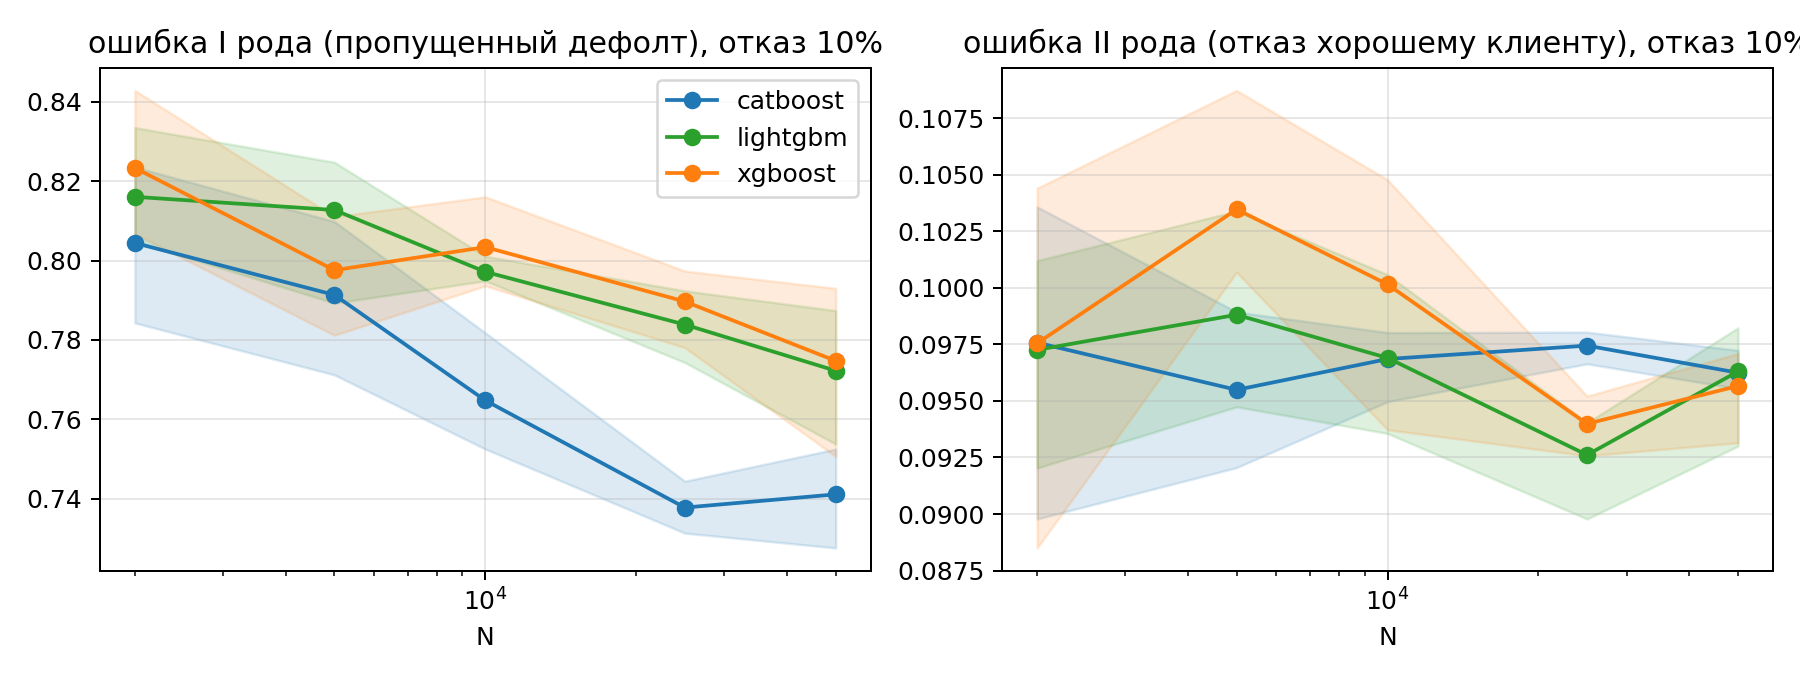
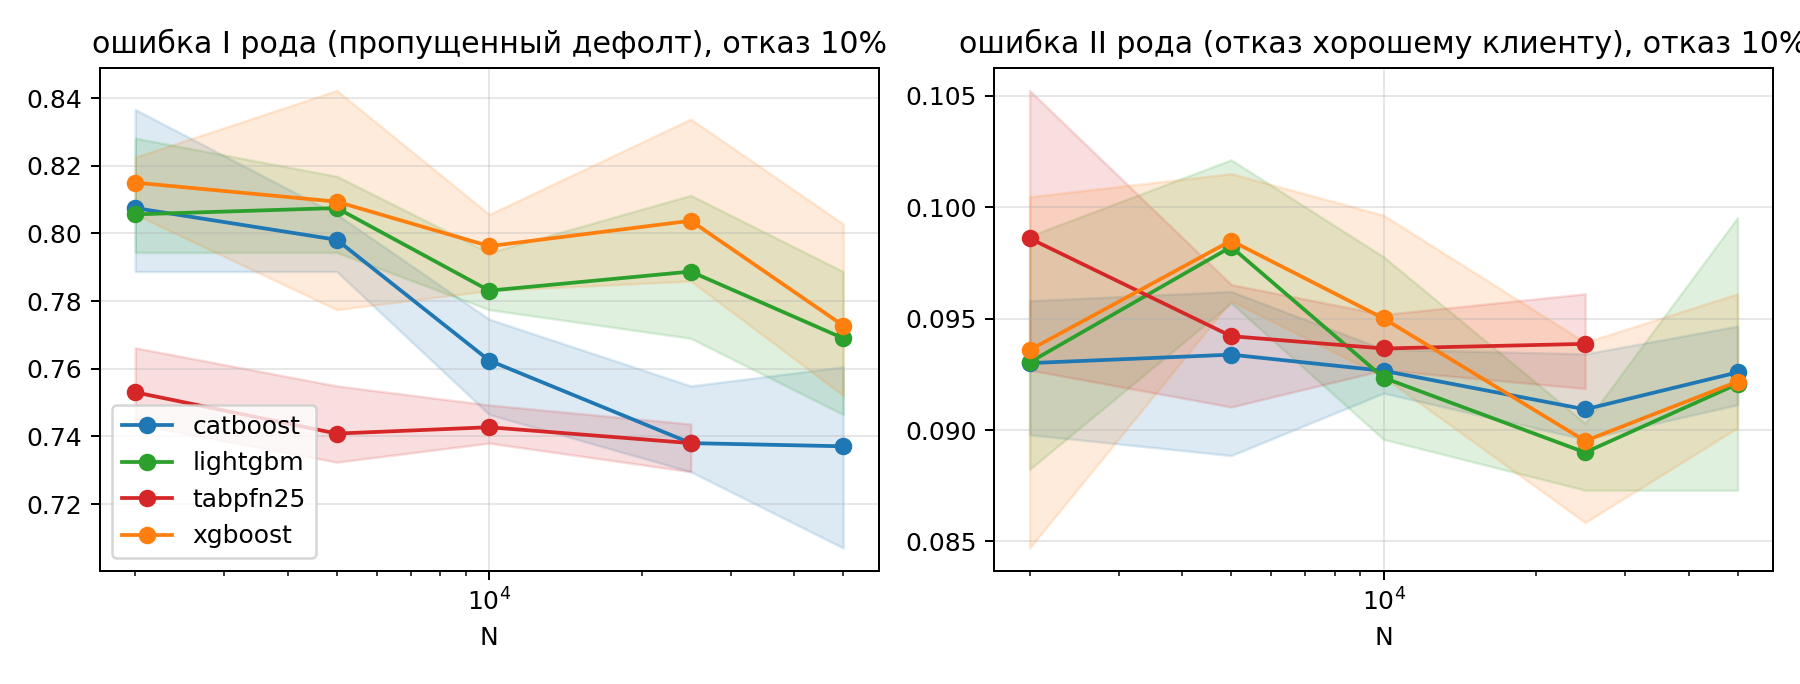
new figures

diff --git a/src/make_article_figures.py b/src/make_article_figures.py
@@ -1,0 +1,86 @@
+"""Три компактных рисунка для статьи (ширина одной колонки) из таблиц результатов.
+
+  fig_auc_size.png   ROC AUC от размера обучающей выборки N (естественная доля дефолтов), 4 модели
+  fig_err1_size.png  ошибка I рода при отказе 10% заявок от N (естественная доля), 4 модели
+  fig_diff_defaults.png  разность AUC (TabPFN минус CatBoost) с 95% ДИ от числа дефолтов в обучении
+
+Все таблицы должны относиться к одному подмножеству теста (по умолчанию 10 000 + 10 000).
+
+Запуск:
+  python src/make_article_figures.py --gbm results/results_gbm_sub10000_10000.csv \
+     --tab results/results_tabpfn_rebuilt.csv --compare results/compare_tabpfn_catboost.csv --out figures
+"""
+import argparse
+import os
+
+import matplotlib
+matplotlib.use("Agg")
+import matplotlib.pyplot as plt
+import numpy as np
+import pandas as pd
+
+COLORS = {"catboost": "tab:blue", "lightgbm": "tab:green", "xgboost": "tab:orange", "tabpfn25": "tab:red"}
+NAMES = {"catboost": "CatBoost", "lightgbm": "LightGBM", "xgboost": "XGBoost", "tabpfn25": "TabPFN-2.5"}
+SHARE = {"0.01": 0.01, "nat": 0.0361, "0.10": 0.10, "0.25": 0.25}
+W, H = 3.4, 2.7
+XT = [2000, 5000, 10000, 25000, 50000]
+
+
+def prep(path, val_n, test_n):
+    d = pd.read_csv(path)
+    d["rate"] = d["rate"].astype(str)
+    if "feature_set" in d:
+        d = d[d["feature_set"].astype(str) == "all"]
+    for col, v in (("val_n", val_n), ("test_n", test_n)):
+        if col in d:
+            d = d[d[col] == v]
+    return d
+
+
+def band(ax, d, col, ylabel):
+    for m in ["xgboost", "lightgbm", "catboost", "tabpfn25"]:
+        s = d[(d.model == m) & (d.rate == "nat")]
+        if s.empty:
+            continue
+        g = s.groupby("n")[col].agg(["mean", "min", "max"]).reset_index()
+        ax.plot(g["n"], g["mean"], marker="o", ms=3.5, lw=1.4, color=COLORS[m], label=NAMES[m])
+        ax.fill_between(g["n"], g["min"], g["max"], color=COLORS[m], alpha=0.15)
+    ax.set_xscale("log"); ax.set_xticks(XT); ax.set_xticklabels(["2k", "5k", "10k", "25k", "50k"])
+    ax.minorticks_off(); ax.set_xlabel("размер обучающей выборки N"); ax.set_ylabel(ylabel)
+    ax.grid(alpha=0.3); ax.legend(fontsize=7, frameon=False)
+
+
+def main():
+    ap = argparse.ArgumentParser()
+    ap.add_argument("--gbm", required=True)
+    ap.add_argument("--tab", required=True)
+    ap.add_argument("--compare", required=True)
+    ap.add_argument("--out", default="figures")
+    ap.add_argument("--val-n", type=int, default=10000)
+    ap.add_argument("--test-n", type=int, default=10000)
+    args = ap.parse_args()
+    os.makedirs(args.out, exist_ok=True)
+    plt.rcParams.update({"font.size": 8})
+    d = pd.concat([prep(args.gbm, args.val_n, args.test_n), prep(args.tab, args.val_n, args.test_n)], ignore_index=True)
+
+    fig, ax = plt.subplots(figsize=(W, H)); band(ax, d, "auc_test", "ROC AUC (тест)")
+    fig.tight_layout(); fig.savefig(os.path.join(args.out, "fig_auc_size.png"), dpi=220); plt.close(fig)
+
+    fig, ax = plt.subplots(figsize=(W, H)); band(ax, d, "err1_q10", "ошибка I рода, отказ 10%")
+    fig.tight_layout(); fig.savefig(os.path.join(args.out, "fig_err1_size.png"), dpi=220); plt.close(fig)
+
+    c = pd.read_csv(args.compare); c["rate"] = c["rate"].astype(str)
+    c["D"] = c["n"] * c["rate"].map(SHARE)
+    c = c.sort_values("D")
+    fig, ax = plt.subplots(figsize=(W, H))
+    ax.axhline(0, color="gray", lw=0.8)
+    ax.errorbar(c["D"], c["diff"], yerr=[c["diff"] - c["ci_lo"], c["ci_hi"] - c["diff"]],
+                fmt="o", ms=3.5, lw=1.1, capsize=2, color="tab:red")
+    ax.set_xscale("log"); ax.set_xlabel("число дефолтов в обучающей выборке")
+    ax.set_ylabel("AUC: TabPFN-2.5 минус CatBoost"); ax.grid(alpha=0.3)
+    fig.tight_layout(); fig.savefig(os.path.join(args.out, "fig_diff_defaults.png"), dpi=220); plt.close(fig)
+    print("saved:", sorted(f for f in os.listdir(args.out) if f.startswith("fig_")))
+
+
+if __name__ == "__main__":
+    main()
